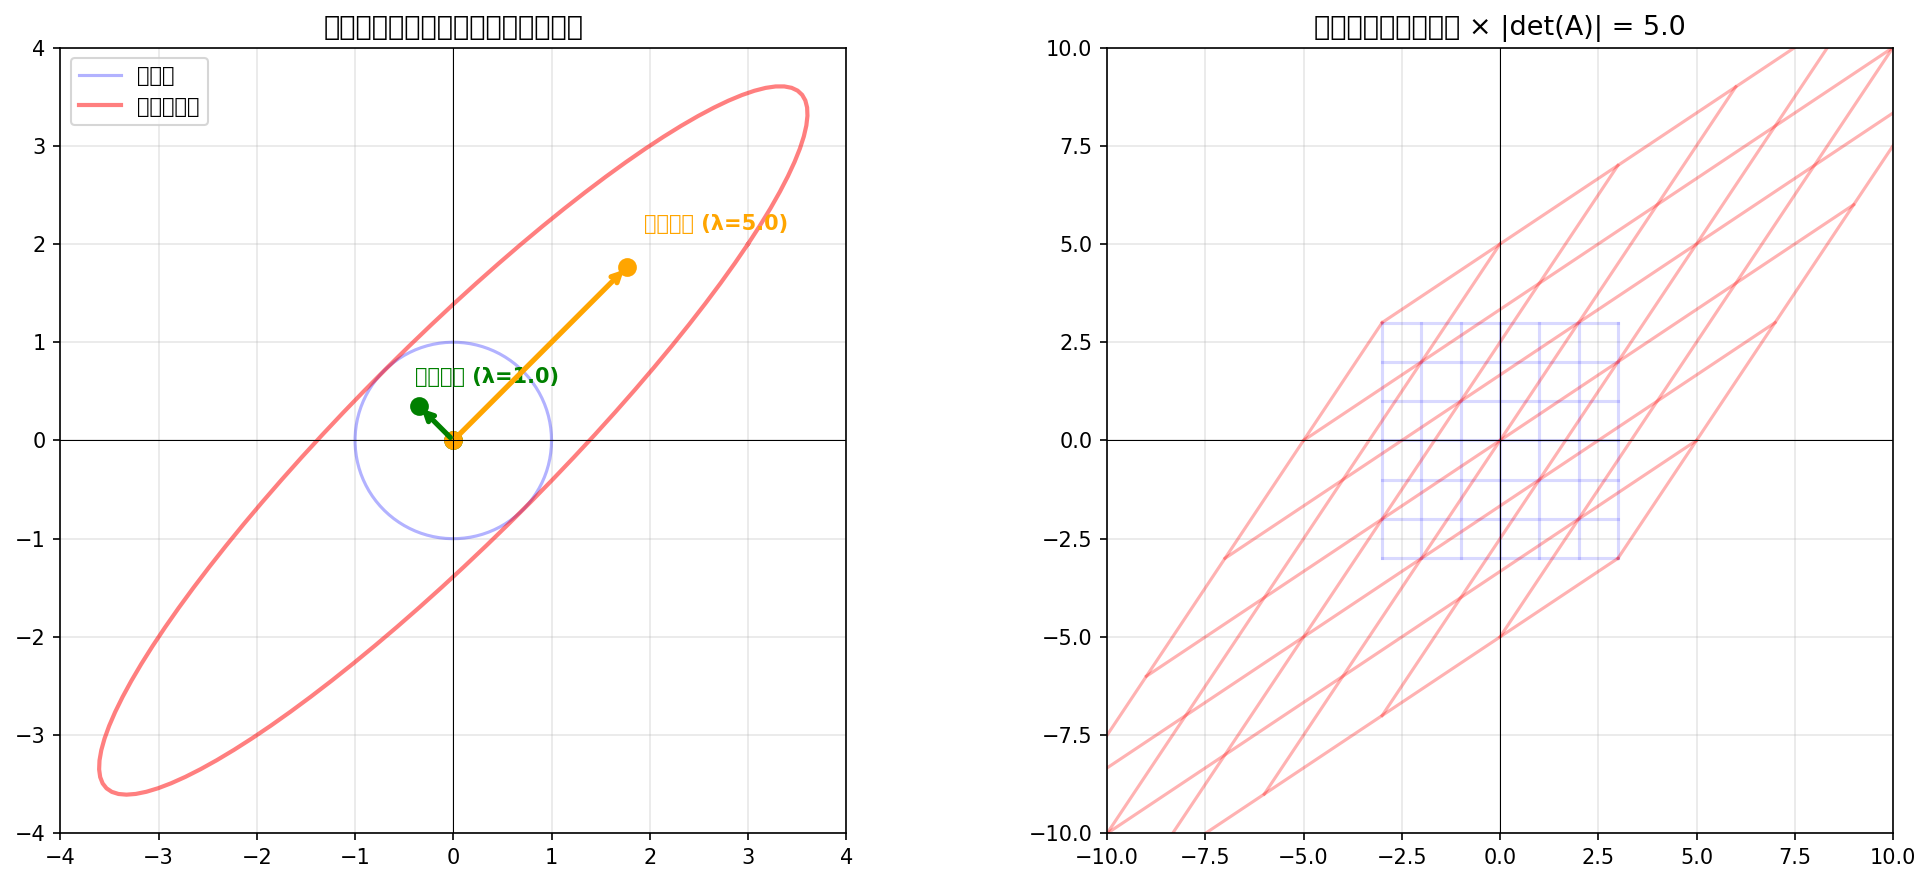
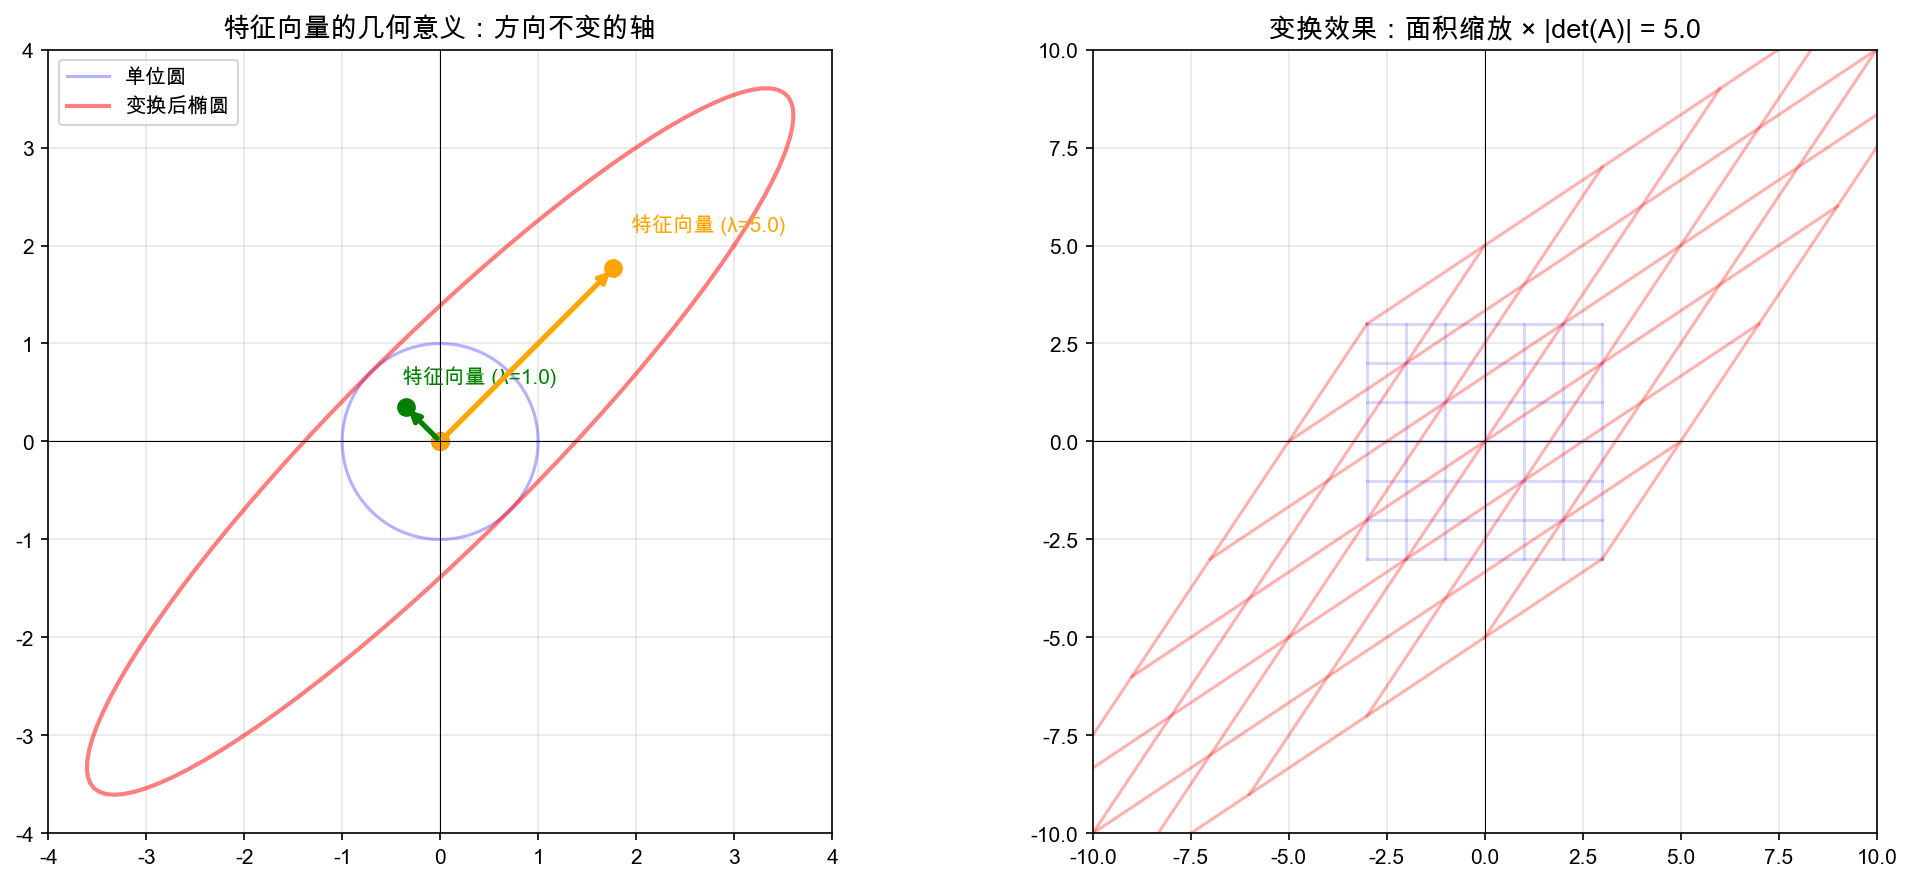
fix: 图片中文乱码修复 + 各章节末尾导航链接统一
- 6个绘图脚本添加中文字体配置(PingFang SC等)，修复中文方块乱码
- 重新生成所有受影响的图片(eigenvector_geometry/rmsnorm_init/svd_lowrank等)
- 统一chapter00-09末尾为'📚 下一章预告'导航链接格式
- chapter10为终章，保留结语不添加下一章链接

diff --git a/chapter08-probability-advanced/scripts/topk_topp_demo.py b/chapter08-probability-advanced/scripts/topk_topp_demo.py
@@ -1,6 +1,10 @@
 """对比 Top-K 和 Top-P 采样的截断效果"""
 import numpy as np
+import matplotlib
+matplotlib.use('Agg')
 import matplotlib.pyplot as plt
+plt.rcParams['font.sans-serif'] = ['PingFang SC', 'Heiti SC', 'Arial Unicode MS', 'SimHei']
+plt.rcParams['axes.unicode_minus'] = False
 
 def softmax(logits):
     exp_l = np.exp(logits - np.max(logits))

diff --git a/chapter08-probability-advanced/scripts/sampling_strategies.py b/chapter08-probability-advanced/scripts/sampling_strategies.py
@@ -1,6 +1,10 @@
 """完整对比不同采样策略生成的 token 序列"""
 import numpy as np
+import matplotlib
+matplotlib.use('Agg')
 import matplotlib.pyplot as plt
+plt.rcParams['font.sans-serif'] = ['PingFang SC', 'Heiti SC', 'Arial Unicode MS', 'SimHei']
+plt.rcParams['axes.unicode_minus'] = False
 
 def softmax(logits, T=1.0):
     scaled = logits / T

diff --git a/chapter04-matrix-deep/scripts/svd_demo.py b/chapter04-matrix-deep/scripts/svd_demo.py
@@ -7,6 +7,8 @@ import numpy as np
 import matplotlib
 matplotlib.use('Agg')
 import matplotlib.pyplot as plt
+plt.rcParams['font.sans-serif'] = ['PingFang SC', 'Heiti SC', 'Arial Unicode MS', 'SimHei']
+plt.rcParams['axes.unicode_minus'] = False
 
 # ==========================================
 # Part 1: 手动 SVD 计算 vs NumPy

diff --git a/chapter04-matrix-deep/scripts/rmsnorm_init_demo.py b/chapter04-matrix-deep/scripts/rmsnorm_init_demo.py
@@ -7,6 +7,8 @@ import numpy as np
 import matplotlib
 matplotlib.use('Agg')
 import matplotlib.pyplot as plt
+plt.rcParams['font.sans-serif'] = ['PingFang SC', 'Heiti SC', 'Arial Unicode MS', 'SimHei']
+plt.rcParams['axes.unicode_minus'] = False
 
 # ==========================================
 # Part 1: RMSNorm 演示

diff --git a/chapter10-rl-alignment/scripts/ppo_clip_visual.py b/chapter10-rl-alignment/scripts/ppo_clip_visual.py
@@ -4,7 +4,11 @@
 """
 
 import numpy as np
+import matplotlib
+matplotlib.use('Agg')
 import matplotlib.pyplot as plt
+plt.rcParams['font.sans-serif'] = ['PingFang SC', 'Heiti SC', 'Arial Unicode MS', 'SimHei']
+plt.rcParams['axes.unicode_minus'] = False
 
 epsilon = 0.2
 ratio = np.linspace(0.0, 2.0, 500)

diff --git a/chapter10-rl-alignment/scripts/policy_gradient_sim.py b/chapter10-rl-alignment/scripts/policy_gradient_sim.py
@@ -4,7 +4,11 @@
 """
 
 import numpy as np
+import matplotlib
+matplotlib.use('Agg')
 import matplotlib.pyplot as plt
+plt.rcParams['font.sans-serif'] = ['PingFang SC', 'Heiti SC', 'Arial Unicode MS', 'SimHei']
+plt.rcParams['axes.unicode_minus'] = False
 
 np.random.seed(42)
 

diff --git a/chapter01-linear-algebra/README.md b/chapter01-linear-algebra/README.md
@@ -683,16 +683,9 @@ print("\n每行和:", attention_weights.sum(axis=1))  # 每行应该和为 1
 
 ---
 
-> 🌱 **妙蛙种子的学习小贴士**：
-> 
-> 学数学最好的方法是"三步法"：
-> 1. **看懂** — 阅读定义和公式，理解每个符号的含义
-> 2. **手推** — 关掉书，自己在纸上推导一遍
-> 3. **代码验证** — 用 NumPy 实现一遍，确保和手推结果一致
-> 
-> 这章的内容值得反复练习。不用急，慢慢来——每一棵大树都是从一颗小小的种子开始的 🌱
-> 
-> *下一章预告：微积分核心 —— 导数、梯度、链式法则，这些是理解模型如何"学习"的数学钥匙。*
+## 📚 下一章预告
+
+向量、矩阵、点积——LLM 的数学骨架搭好了！下一章我们进入 **[第二章：微积分核心](../chapter02-calculus/)**——导数、梯度、链式法则，这些是理解模型如何"学习"的数学钥匙。🔑
 
 ---
 

diff --git a/chapter09-scaling-rl/README.md b/chapter09-scaling-rl/README.md
@@ -465,4 +465,6 @@ $$\frac{L(2C) - E}{L(C) - E} \approx \frac{(2C)^{-0.5 \times 0.34}}{C^{-0.5 \tim
 
 ---
 
-> 🌱 **小结**：缩放定律给了我们预测未来的能力——在大模型训练之前，就能预测它的表现。幂律、Chinchilla 和最小二乘法，这三把工具组合起来，就是训练前的指南针。但预训练只是 LLM 的第一步，接下来一个关键问题是：**预训练好的模型，如何通过人类反馈变得更好用、更安全？** 这就是下一章要讲的 RL 对齐。咱们下一章见！👉 [第十章：RL 基础与对齐](../chapter10-rl-alignment/README.md)
+## 📚 下一章预告
+
+缩放定律、Chinchilla、幂律拟合——大模型训练规模的指南针到手了！下一章我们进入 **[第十章：RL 基础与对齐](../chapter10-rl-alignment/)**——策略梯度、PPO、DPO，理解预训练好的模型如何通过人类反馈变得更好用、更安全。🤝

diff --git a/chapter05-optimization/README.md b/chapter05-optimization/README.md
@@ -790,4 +790,6 @@ $$\theta_t = \theta_{t-1} - \eta \cdot \frac{\hat{m}_t}{\sqrt{\hat{v}_t} + \epsi
 
 > 🌱 **本章小结**：优化理论是模型训练的引擎。梯度下降是基础，SGD 让它在大数据上可用，动量法加速收敛，Adam 用自适应学习率让它更鲁棒，学习率调度让训练更稳定。在训练 LLM 这个万亿维度的优化问题中，这些技术的每一个都是不可或缺的。
 
-**下一章预告**：信息论 —— 熵、交叉熵、KL 散度。理解语言模型的输出为什么是概率分布，以及交叉熵损失背后的信息论含义。
+## 📚 下一章预告
+
+梯度下降、Adam、学习率调度——模型训练的引擎就绪！下一章我们进入 **[第六章：信息论](../chapter06-information-theory/)**——熵、交叉熵、KL 散度，理解语言模型损失函数背后的信息论含义。📊

diff --git a/chapter04-matrix-deep/README.md b/chapter04-matrix-deep/README.md
@@ -931,7 +931,9 @@ LoRA 的秩 $r$ 通常取 4、8、16。结合 SVD 的知识，你认为：
 | 行列式 | 变换对体积的缩放因子 |
 | 矩阵求导 | 反向传播的数学引擎，链式法则在矩阵世界的体现 |
 
-> 🌱 **下一章预告**：咱们要进入**优化理论**的世界——梯度下降、Adam、学习率调度，这些是理解模型如何一步步逼近最优解的核心。
+## 📚 下一章预告
+
+特征值、SVD、矩阵求导——Transformer 的参数结构看透了！下一章我们进入 **[第五章：优化理论](../chapter05-optimization/)**——梯度下降、Adam、学习率调度，理解模型如何一步步逼近最优解。⚡
 
 ---
 

diff --git a/chapter08-probability-advanced/README.md b/chapter08-probability-advanced/README.md
@@ -1019,4 +1019,6 @@ $$\min_\theta D_{\text{KL}}(\pi_\theta \| \pi_{\text{ref}})$$
 | MLE | $\max_\theta \prod P_\theta(x_t \| x_{<t})$ | 找最解释数据的参数 |
 | NLL | $-\sum \log P_\theta(x_t \| x_{<t})$ | 训练损失，等价于交叉熵 |
 
-> 🌱 **下一章预告**：我们将进入**缩放定律**——Scaling Law、Chinchilla、幂律拟合。理解大模型训练规模的数学规律。
+## 📚 下一章预告
+
+采样策略、温度、Top-K/P——LLM 如何"说话"弄明白了！下一章我们进入 **[第九章：缩放定律](../chapter09-scaling-rl/)**——Scaling Law、Chinchilla、幂律拟合，理解大模型训练规模的数学规律。📈
